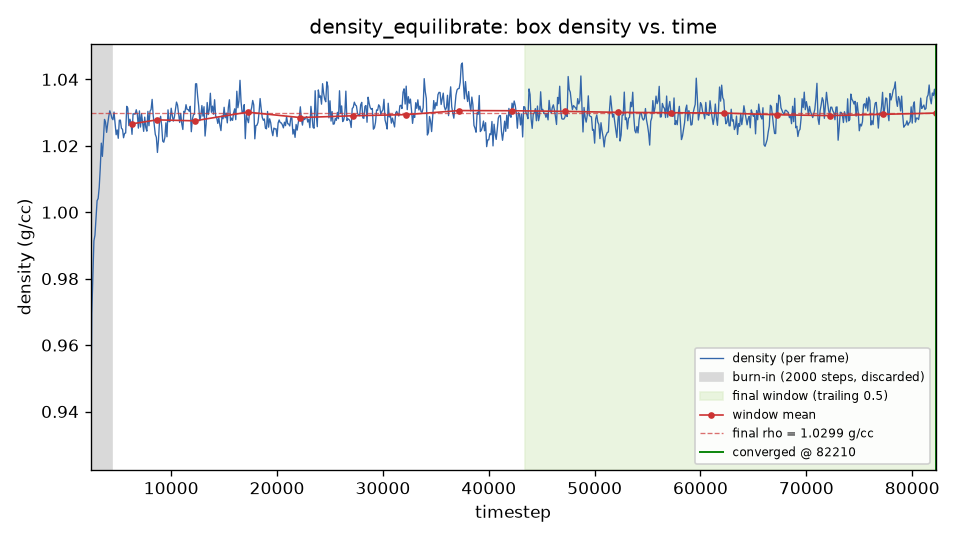
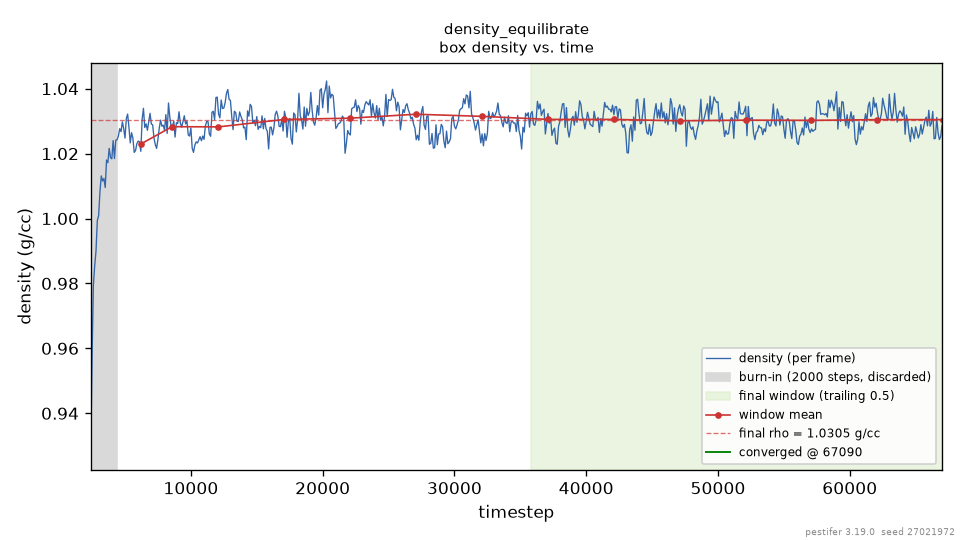
change: stop plotting density twice in the examples
Twenty-two of the twenty-seven examples asked mdplot for `density` while also
running density_equilibrate, which writes its own density figure.  Every build
therefore produced two plots of one quantity, and left the reader to work out
which to trust.

They are not equivalent.  density_equilibrate's carries the burn-in shading, the
trailing window the convergence test is evaluated over, the per-chunk window
means, the final rho and the step at which the run decided it had converged --
it shows the reasoning.  mdplot's is the bare trace, adding only the pre-NPT
warm-up, and it is also the one whose stage-marker rules pile up at the left
edge on examples with a short warm-up.  The redundant plot was the weaker one.

Those examples now ask mdplot for the cell edges instead.  Density converging
and the box contracting are two views of one process, so the pair is
complementary: for BPTI the three edges drop sharply as the barostat engages
(a_x 58 -> 56 A) and then plateau at the same equilibrium the density plot
reports reaching.

This is not a new convention.  Examples 23, 24, 26 and 27 already asked mdplot
for exactly a_x/b_y/c_z alongside density_equilibrate; 01-22 simply predate that
choice.  The change brings them into line rather than inventing anything.

Worth recording because it overrides written intent: bpti1.rst had explicitly
argued for showing both figures -- "Between them, nothing about the equilibration
[…]

diff --git a/docs/source/examples/01/bpti1.rst b/docs/source/examples/01/bpti1.rst
@@ -86,13 +86,13 @@ The task writes its own convergence plot, which shows the reasoning rather than 
 
     Box density vs. timestep for the BPTI system, as reported by ``density_equilibrate``.  The grey band at the left is the burn-in discarded as the barostat transient; the green band is the trailing window the convergence test is evaluated over; the red points are per-chunk means of that window; and the marker at the right is the step at which the run decided it was finished.  The final density is stated on the plot.
 
-The ``mdplot`` task then plots the same quantity across *all* the post-solvation dynamics -- the minimization and the NVT warm-up as well as the NPT stage -- which is the wider view rather than the convergence argument:
+The ``mdplot`` task then plots what the box was *doing* to get there.  Density and cell size are two views of one process -- under NPT the cell shrinks until the water reaches its proper density -- so the pair is complementary rather than repetitive:
 
-.. figure:: solvated-density.png
+.. figure:: solvated-a_x-b_y-c_z.png
 
-    Density vs. timestep for the BPTI system post-solvation, across every simulation stage.  The dashed vertical rules mark the boundaries between stages, so the jump as the barostat engages reads as a change of ensemble rather than as a physical event.
+    The three cell edges vs. timestep for the BPTI system under NPT.  All three contract sharply as the barostat engages on the slightly-too-sparse solvated box -- ``a_x`` from 58 to 56 A, the other two by about 2 A each -- and then fluctuate about fixed values for the rest of the run.  That plateau is the same equilibrium the density plot above reports reaching; this is the box motion behind it.  The series begins where the NPT stage does, because the cell trajectory is only written once the barostat is running.
 
-Between them, nothing about the equilibration has to be assumed: the convergence plot shows the criterion that ended the run, and the stage plot shows that criterion in the context of everything that came before it.
+Between them, nothing about the equilibration has to be assumed: the convergence plot shows the criterion that ended the run, and the cell plot shows the box motion that criterion was measuring.
 
 The same ``mdplot`` task also records what the run cost, which is the other thing worth knowing
 before scaling a protocol up:

diff --git a/CHANGELOG.md b/CHANGELOG.md
@@ -4,6 +4,26 @@ Pestifer follows [Semantic Versioning](https://semver.org/) and documents change
 
 ## [Unreleased]
 
+- change: **the examples no longer plot density twice.** Twenty-two of the twenty-seven examples
+  asked `mdplot` for `density` while also running `density_equilibrate`, which writes its own
+  density figure -- so every build produced two plots of one quantity and left the reader to work
+  out which to trust. The `density_equilibrate` figure is strictly the better of the two: it
+  carries the burn-in and trailing-window shading, the per-chunk window means, the final rho and
+  the step at which the run decided it had converged. `mdplot`'s added only the pre-NPT warm-up.
+
+  Those examples now ask `mdplot` for the cell edges (`a_x`/`b_y`/`c_z`) instead, which is
+  complementary rather than duplicative -- density converging and the box contracting are two
+  views of one process. This is not a new convention: examples 23, 24, 26 and 27 already did
+  exactly this, so the change brings 01-22 into line with the newer ones rather than inventing
+  anything.
+
+  Note that `docs/source/examples/01/bpti1.rst` had explicitly argued for showing both figures
+  ("Between them, nothing about the equilibration has to be assumed"). That prose is rewritten to
+  make the same argument with the pairing that actually holds -- the convergence criterion, and
+  the box motion it was measuring. The two redundant figures in examples 16 and 17 are removed;
+  both pages already showed the cell-edge plot immediately above them.
+
+
 - fix: **consecutive replica seeds no longer produce near-adjacent NAMD seeds.** Both sweep
   scripts seed replica *r* with `SEED_BASE+r-1`, so consecutive base seeds are the normal case;
   but `_namd_seed` XORed the base against a per-stream constant, which leaves the base's low bits

diff --git a/docs/source/examples/16/hiv-mpertm3-membrane1.rst b/docs/source/examples/16/hiv-mpertm3-membrane1.rst
@@ -44,10 +44,6 @@ The ``mdplot`` task generated the following plots for the membrane-embedded syst
 
            Cell dimensions vs time step for the protein-embedded membrane.
 
-.. figure:: 16-bilayer-density.png
-
-           System density vs time step for the protein-embedded membrane.
-
 .. figure:: 16-bilayer-pressureprofile.png
 
            Pressure profiles for selected time intervals during the protein-embedded membrane relaxation.

diff --git a/docs/source/examples/17/hiv-mpertm3-membrane2.rst b/docs/source/examples/17/hiv-mpertm3-membrane2.rst
@@ -76,10 +76,6 @@ The ``mdplot`` task generated the following plots for the membrane-embedded syst
 
            Cell dimensions vs time step for the protein-embedded membrane.
 
-.. figure:: 17-bilayer-density.png
-
-           System density vs time step for the protein-embedded membrane.
-
 .. figure:: 17-bilayer-pressureprofile.png
 
            Pressure profiles for selected time intervals during the protein-embedded membrane relaxation.
